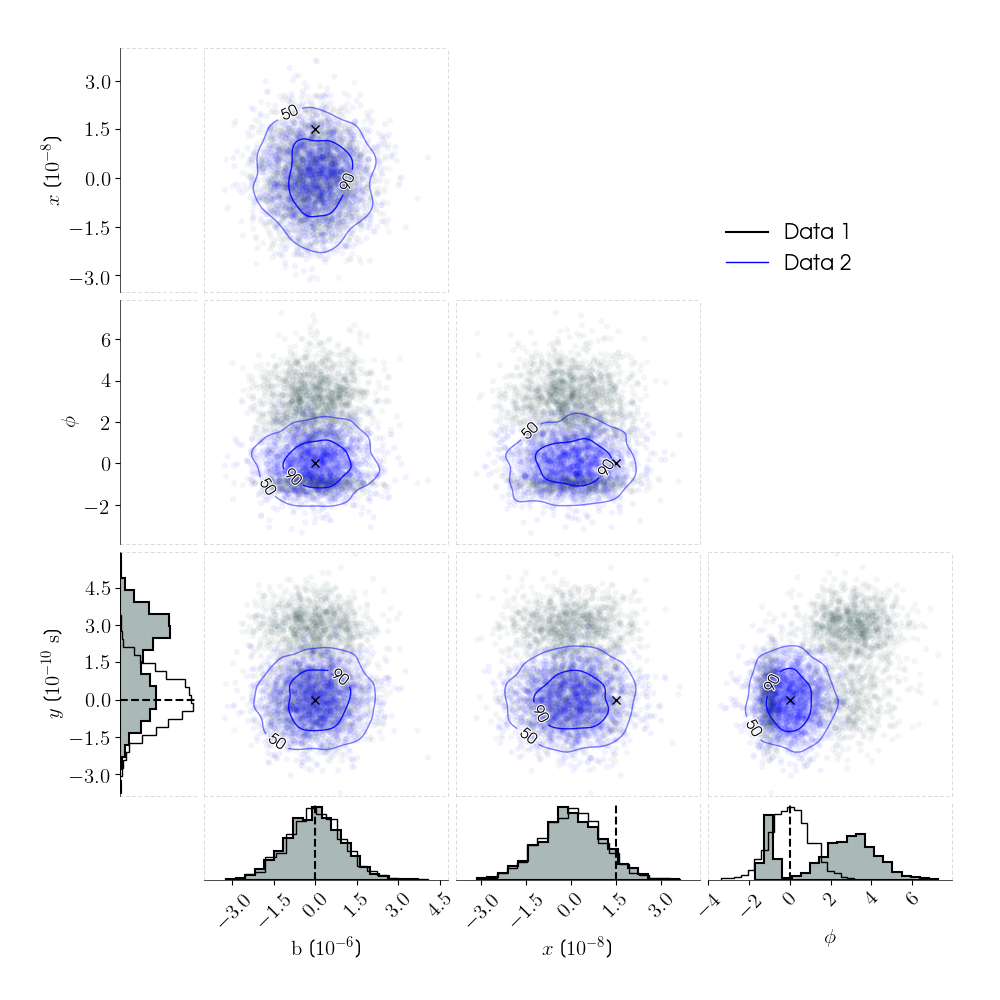
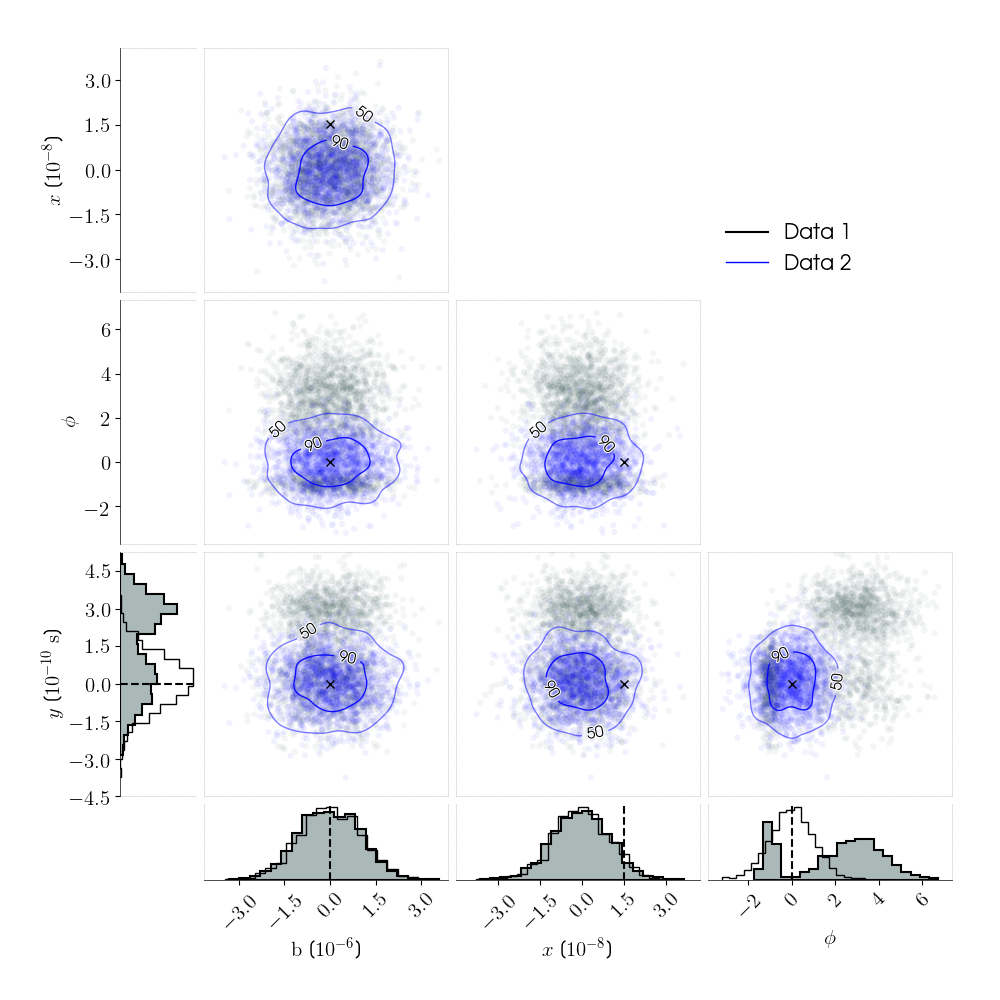
Some updates:  - only allow matplotlib versions > 2.0, so MaxNLocator class can be used    without resorting to a custom version  - fix a couple of warnings  - bump version number

diff --git a/scotchcorner.py b/scotchcorner.py
@@ -1,6 +1,6 @@
 from __future__ import print_function, division
 
-__version__ = "0.2.0"
+__version__ = "0.2.1"
 __author__ = "Matthew Pitkin (matthew.pitkin@glasgow.ac.uk)"
 __copyright__ = "Copyright 2016 Matthew Pitkin, Ben Farr and Will Farr"
 
@@ -12,143 +12,10 @@ import math
 import matplotlib as mpl
 from matplotlib import pyplot as pl
 from matplotlib.lines import Line2D
-from matplotlib.ticker import ScalarFormatter, Locator, Base
+from matplotlib.ticker import ScalarFormatter, MaxNLocator
 import matplotlib.gridspec as gridspec
 from matplotlib import transforms as mtransforms
 from matplotlib import patheffects as PathEffects
-
-
-class CustomMaxNLocator(Locator):
-    """
-    Select no more than N intervals at nice locations. This class is copied and
-    modified from the MaxNLocator class in matplotlib v2.0.0, which allows a
-    minimum number of ticks (but which MaxNLocator in v1.5.1 does not allow).
-    It does not have all the options and so some have default values.
-    """
-    default_params = dict(nbins=10, prune=None, min_n_ticks=2)
-
-    def __init__(self, *args, **kwargs):
-        """
-        Keyword args:
-        *nbins*
-            Maximum number of intervals; one less than max number of
-            ticks.  If the string `'auto'`, the number of bins will be
-            automatically determined based on the length of the axis.
-        *min_n_ticks*
-            While the estimated number of ticks is less than the minimum,
-            the target value *nbins* is incremented and the ticks are
-            recalculated.
-        *prune*
-            ['lower' | 'upper' | 'both' | None]
-            Remove edge ticks -- useful for stacked or ganged plots
-            where the upper tick of one axes overlaps with the lower
-            tick of the axes above it.
-            If prune=='lower', the smallest tick will
-            be removed.  If prune=='upper', the largest tick will be
-            removed.  If prune=='both', the largest and smallest ticks
-            will be removed.  If prune==None, no ticks will be removed.
-        """
-        if args:
-            kwargs['nbins'] = args[0]
-            if len(args) > 1:
-                raise ValueError(
-                    "Keywords are required for all arguments except 'nbins'")
-        self.set_params(**self.default_params)
-        self.set_params(**kwargs)
-
-    def set_params(self, **kwargs):
-        """Set parameters within this locator."""
-        if 'nbins' in kwargs:
-            self._nbins = kwargs['nbins']
-            if self._nbins != 'auto':
-                self._nbins = int(self._nbins)
-        self._steps = [1, 1.5, 2, 2.5, 3, 4, 5, 6, 8, 10]
-        if 'prune' in kwargs:
-            prune = kwargs['prune']
-            if prune is not None and prune not in ['upper', 'lower', 'both']:
-                raise ValueError("prune must be 'upper', 'lower', 'both', or "
-                                 "None")
-            self._prune = prune
-        if 'min_n_ticks' in kwargs:
-            self._min_n_ticks = max(1, kwargs['min_n_ticks'])
-
-    def _raw_ticks(self, vmin, vmax):
-        if self._nbins == 'auto':
-            nbins = max(min(self.axis.get_tick_space(), 9),
-                        max(1, self._min_n_ticks - 1))
-        else:
-            nbins = self._nbins
-
-        while True:
-            ticks = self._try_raw_ticks(vmin, vmax, nbins)
-            nticks = ((ticks <= vmax) & (ticks >= vmin)).sum()
-            if nticks >= self._min_n_ticks:
-                break
-            nbins += 1
-
-        self._nbins_used = nbins  # Maybe useful for troubleshooting.
-        return ticks
-
-    def _try_raw_ticks(self, vmin, vmax, nbins):
-        scale, offset = self.scale_range(vmin, vmax, nbins)
-        vmin = vmin - offset
-        vmax = vmax - offset
-        raw_step = (vmax - vmin) / nbins
-        scaled_raw_step = raw_step / scale
-        best_vmax = vmax
-        best_vmin = vmin
-
-        steps = (x for x in self._steps if x >= scaled_raw_step)
-        for step in steps:
-            step *= scale
-            best_vmin = vmin // step * step
-            best_vmax = best_vmin + step * nbins
-            if best_vmax >= vmax:
-                break
-
-        # More than nbins may be required, e.g. vmin, vmax = -4.1, 4.1 gives
-        # nbins=9 but 10 bins are actually required after rounding.  So we just
-        # create the bins that span the range we need instead.
-        low = round(Base(step).le(vmin - best_vmin) / step)
-        high = round(Base(step).ge(vmax - best_vmin) / step)
-        return np.arange(low, high + 1) * step + best_vmin + offset
-
-    def bin_boundaries(self, vmin, vmax):
-        return self._raw_ticks(vmin, vmax)
-
-    def __call__(self):
-        vmin, vmax = self.axis.get_view_interval()
-        return self.tick_values(vmin, vmax)
-
-    def tick_values(self, vmin, vmax):
-        vmin, vmax = mtransforms.nonsingular(
-            vmin, vmax, expander=1e-13, tiny=1e-14)
-        locs = self._raw_ticks(vmin, vmax)
-        prune = self._prune
-        if prune == 'lower':
-            locs = locs[1:]
-        elif prune == 'upper':
-            locs = locs[:-1]
-        elif prune == 'both':
-            locs = locs[1:-1]
-        return self.raise_if_exceeds(locs)
-
-    def view_limits(self, dmin, dmax):
-        dmin, dmax = mtransforms.nonsingular(
-            dmin, dmax, expander=1e-12, tiny=1e-13)
-
-        return self._raw_ticks(dmin, dmax)[[0, -1]]
-
-    def scale_range(self, vmin, vmax, n=1, threshold=100):
-        # scale_range function from matplotlib ticker.py
-        dv = abs(vmax - vmin)  # > 0 as nonsingular is called before.
-        meanv = (vmax + vmin) / 2
-        if abs(meanv) / dv < threshold:
-            offset = 0
-        else:
-            offset = math.copysign(10 ** (math.log10(abs(meanv)) // 1), meanv)
-        scale = 10 ** (math.log10(dv / n) // 1)
-        return scale, offset
 
 
 # A bounded KDE class (inherited from the SciPy Gaussian KDE class) created by
@@ -440,7 +307,8 @@ class scotchcorner(object):
                 self.legendaxis.spines[loc].set_visible(False)  # remove borders
             pl.setp(self.legendaxis.get_xticklabels(), visible=False)  # remove xtick labels
             pl.setp(self.legendaxis.get_yticklabels(), visible=False)  # remove ytick labels
-            self.legendaxis.tick_params(bottom='off', top='off', left='off', right='off')  # remove tick marks
+            self.legendaxis.tick_params(bottom=False, top=False, left=False,
+                                        right=False)  # remove tick marks
 
         # create figure axes
         for i in range(self.ndims-1):
@@ -492,7 +360,8 @@ class scotchcorner(object):
 
                 pl.setp(axj.get_xticklabels(), visible=False)  # remove xtick labels
                 pl.setp(axj.get_yticklabels(), visible=False)  # remove ytick labels
-                axj.tick_params(bottom='off', top='off', left='off', right='off')  # remove tick marks 
+                axj.tick_params(bottom=False, top=False, left=False,
+                                right=False)  # remove tick marks 
                 self.jointaxes.append(axj)
 
         # check for alpha of filled histogram plot
@@ -612,7 +481,7 @@ class scotchcorner(object):
             if 'color' in self.hist_kwargs:
                 c = self.hist_kwargs['color']
             elif 'fc' in self.hist_kwargs and self.hist_kwargs['histtype'] == 'stepfilled':
-                c = self.hist_kwargs['fc'][0:3]
+                c = [self.hist_kwargs['fc'][0:3]]
             else:
                 c = 'b'
 
@@ -769,9 +638,9 @@ class scotchcorner(object):
             prune = None
             if i > 0:  # remove the lower tick label to avoid overlapping labels
                 prune = 'lower'
-            ax.xaxis.set_major_locator(CustomMaxNLocator(nbins=7,
-                                                         min_n_ticks=nbins,
-                                                         prune=prune))
+            ax.xaxis.set_major_locator(MaxNLocator(nbins=7,
+                                                   min_n_ticks=nbins,
+                                                   prune=prune))
             for l in ax.get_xticklabels():
                 l.set_rotation(45)
             ax.xaxis.set_major_formatter(ScalarFormatter(useMathText=self.use_math_text))
@@ -794,9 +663,9 @@ class scotchcorner(object):
             prune = None  # remove lower tick to avoid overlapping labels
             if i < len(self.histvert)-1:
                 prune = 'lower'
-            ax.yaxis.set_major_locator(CustomMaxNLocator(nbins=7,
-                                                         min_n_ticks=nbins,
-                                                         prune=prune))
+            ax.yaxis.set_major_locator(MaxNLocator(nbins=7,
+                                                   min_n_ticks=nbins,
+                                                   prune=prune))
             ax.yaxis.set_major_formatter(ScalarFormatter(useMathText=self.use_math_text))
             self.format_exponents_in_label_single_ax(ax.yaxis)  # move exponents into label
 

diff --git a/README.md b/README.md
@@ -11,8 +11,7 @@ a multi-dimensional parameter space.
 
 ## Installation
 
-This code requires numpy, scipy and matplotlib. To make the plots look pretty a
-[matplotlib](http://matplotlib.org) version greater than or equal to 1.5.1 is needed.
+This code requires numpy, scipy and [matplotlib](http://matplotlib.org), with a matplotlib version greater than or equal to 2.0.
 
 The repository can be cloned and then installed using:
 
